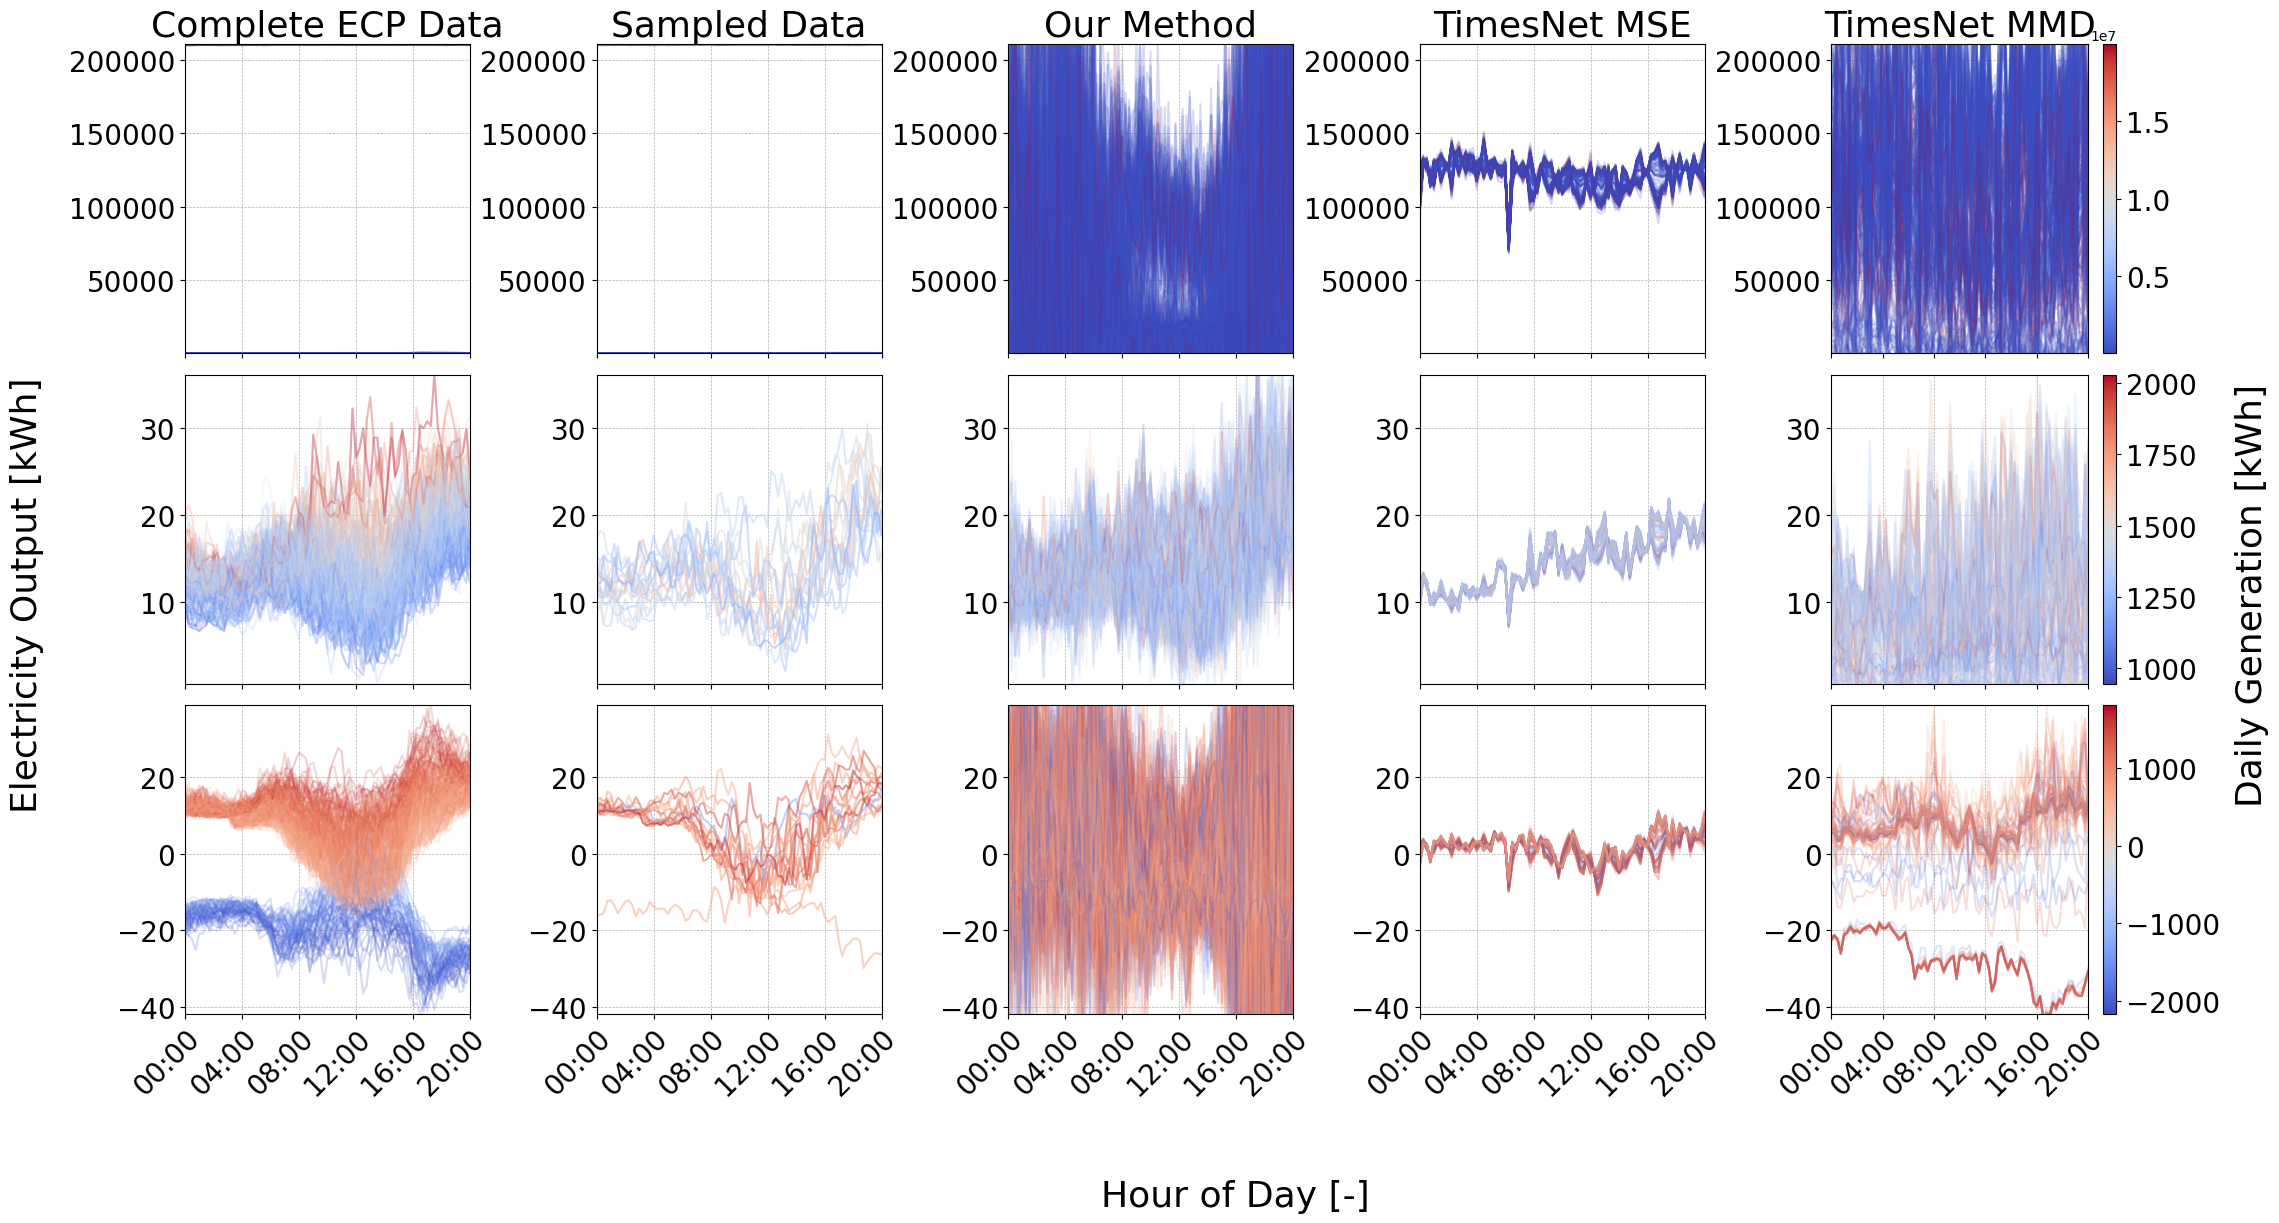
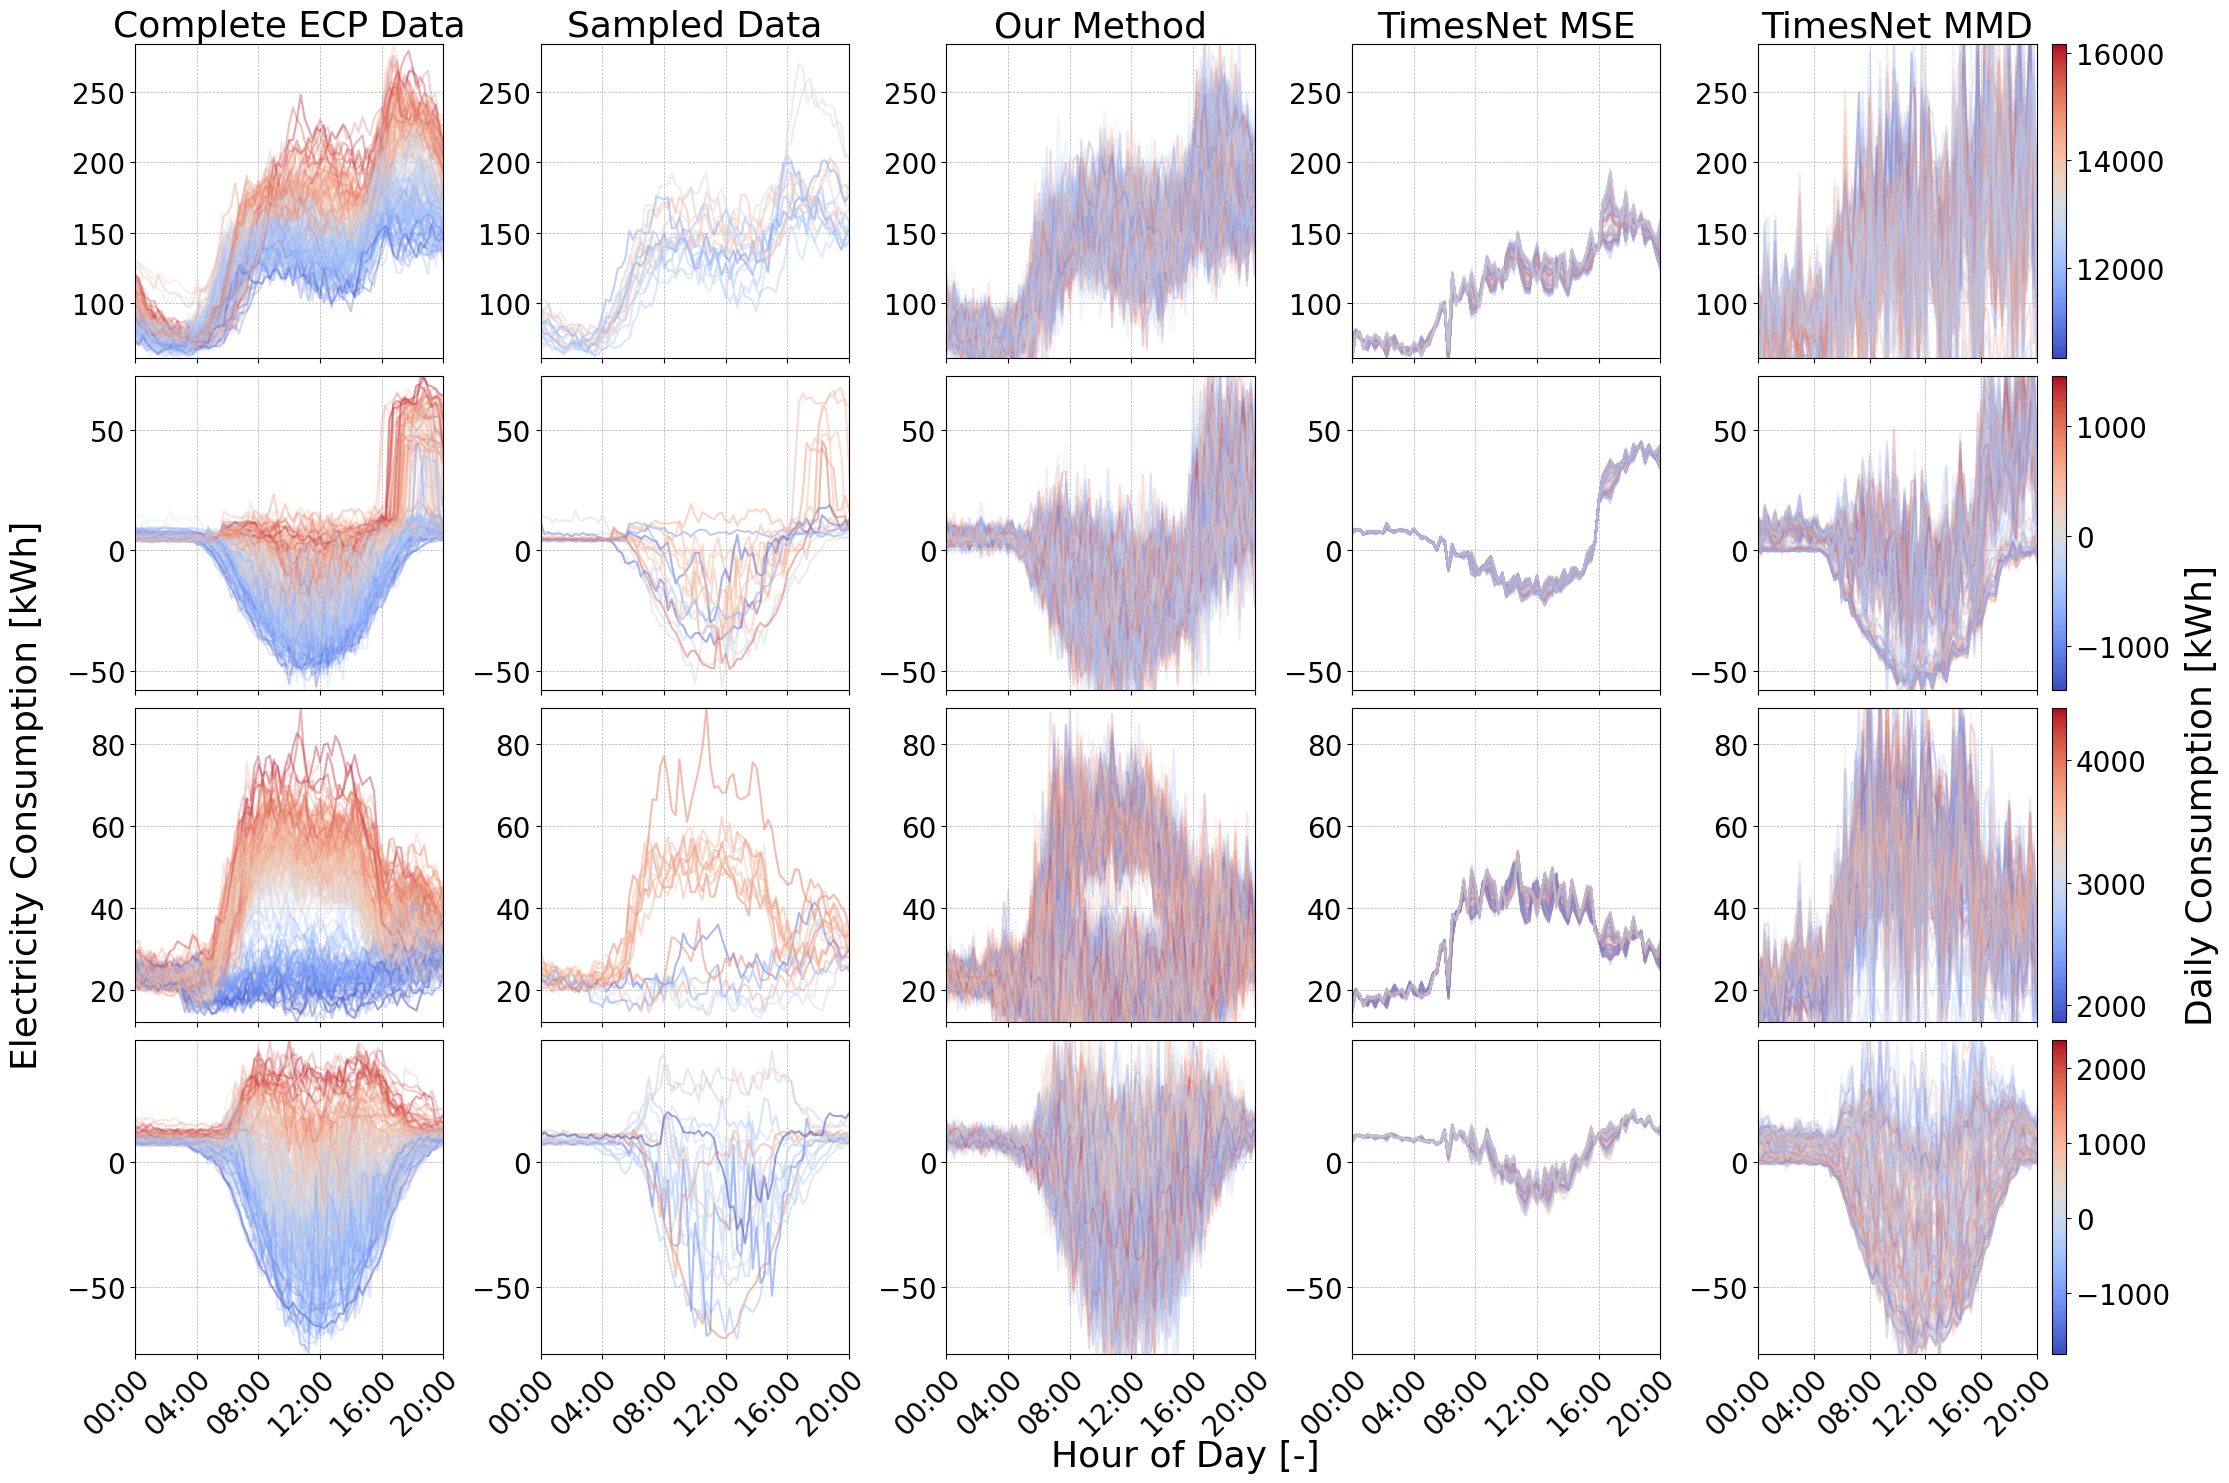
add

diff --git a/exp/exp_second_round/eva/evatransformer/plot_results.py b/exp/exp_second_round/eva/evatransformer/plot_results.py
@@ -92,7 +92,7 @@ empty_token_vec = torch.load(path_empty, map_location=device, weights_only=False
 #%%
 "Load data"
 # load data
-batch_size = 3
+batch_size = 60
 split_ratio = (0.8,0.1,0.1)
 data_path = 'exp/data_process_for_data_collection_all/transformer_data_15minutes.pkl'
 dataset = Dataloader_nolabel(data_path,  batch_size=batch_size
@@ -101,8 +101,12 @@ dataset = Dataloader_nolabel(data_path,  batch_size=batch_size
 print('length of train data: ', dataset.__len__())
 # batch_size = int(batch_size)
 
+test_data = dataset.load_train_data_fix()
+# take_index = [29, 30, 37, 39] # 15 residential with pv
+take_index = [40, 41, 42, 43, 44, 45, 46, 47, 48, 49, 50, 51, 52, 53, 54, 55] # 15 residential without pv
+batch_size = len(take_index)
+test_data = test_data[take_index, :, :]
 # test_data = dataset.load_test_data(batch_size)
-test_data = dataset.load_test_data(batch_size)
 copy_test_data = test_data.copy()
 copy_test_data = torch.tensor(copy_test_data, dtype=torch.float64).to(device)
 
@@ -114,10 +118,13 @@ test_data = torch.tensor(test_data, dtype=torch.float64).to(device)
 # replace nan with 0
 test_data = torch.nan_to_num(test_data, nan=0.0, posinf=0.0, neginf=0.0)
 
-for _random_num in [4, 8, 16, 32]:
+for _random_num in [32]: # 4, 8, 16,
     
     "Transform the data to GMM parameters"
     encoder.eval()
+    embedding_para.eval()
+    emb_empty_token.eval()
+    
     _test_sample_part = rs.random_sample(test_data , 'random', _random_num)
     _test_sample_part[:, :, -1] = _test_sample_part[:, :, -1]/365 # simple data embedding
     _test_sample_part_emb = gmm_train_tool.pad_and_embed(_test_sample_part, random_sample_num, _random_num,

diff --git a/exp/exp_second_round/eva/eva_function.py b/exp/exp_second_round/eva/eva_function.py
@@ -291,13 +291,13 @@ def create_plots(t_samples_list, r_samples_list, r_samples_part_list, timesnet_s
     # fig.text(0.5, -0.01, 'Hour of Day [-]', ha='center', fontsize=label_fontsize)
     # fig.text(0, 0.5, 'Electricity Consumption [kWh]', va='center', rotation='vertical', fontsize=label_fontsize)
 
-    fig.text(0.5, -0.01, 'Hour of Day [-]', ha='center', fontsize=label_fontsize)
-    fig.text(0.01, 0.5, 'Electricity Output [kWh]', va='center', rotation='vertical', fontsize=label_fontsize)
+    fig.text(0.5, 0.08, 'Hour of Day [-]', ha='center', fontsize=label_fontsize)
+    fig.text(0.03, 0.5, 'Electricity Consumption [kWh]', va='center', rotation='vertical', fontsize=label_fontsize)
     # fig.supxlabel('Hour of Day [–]', fontsize=label_fontsize)
     # fig.supylabel('Electricity Consumption [kWh]', fontsize=label_fontsize)
 
     # Add a single color bar label in the middle of the last column
-    fig.text(0.90, 0.5, 'Daily Generation [kWh]', va='center', rotation='vertical', fontsize=label_fontsize)
+    fig.text(0.90, 0.5, 'Daily Consumption [kWh]', va='center', rotation='vertical', fontsize=label_fontsize)
 
     fig.tight_layout(rect=[0, 0, 0.9, 1.0])    # reserve rightmost 10% for the colorbars
     fig.subplots_adjust(

diff --git a/exp/asset/dataloader.py b/exp/asset/dataloader.py
@@ -33,6 +33,11 @@ class Dataloader_nolabel():
         _train_data = self.images[_sample_indx]
         return _train_data.astype(np.float64)
     
+    def load_train_data_fix(self):
+        # _sample_indx = np.random.choice(self._train_idx, self.batch_size)
+        _train_data = self.images[:self.batch_size]
+        return _train_data.astype(np.float64)
+    
     def load_test_data(self, size=64):
         _sample_indx = np.random.choice(self._test_idx, size)
         _test_data = self.images[_sample_indx]
